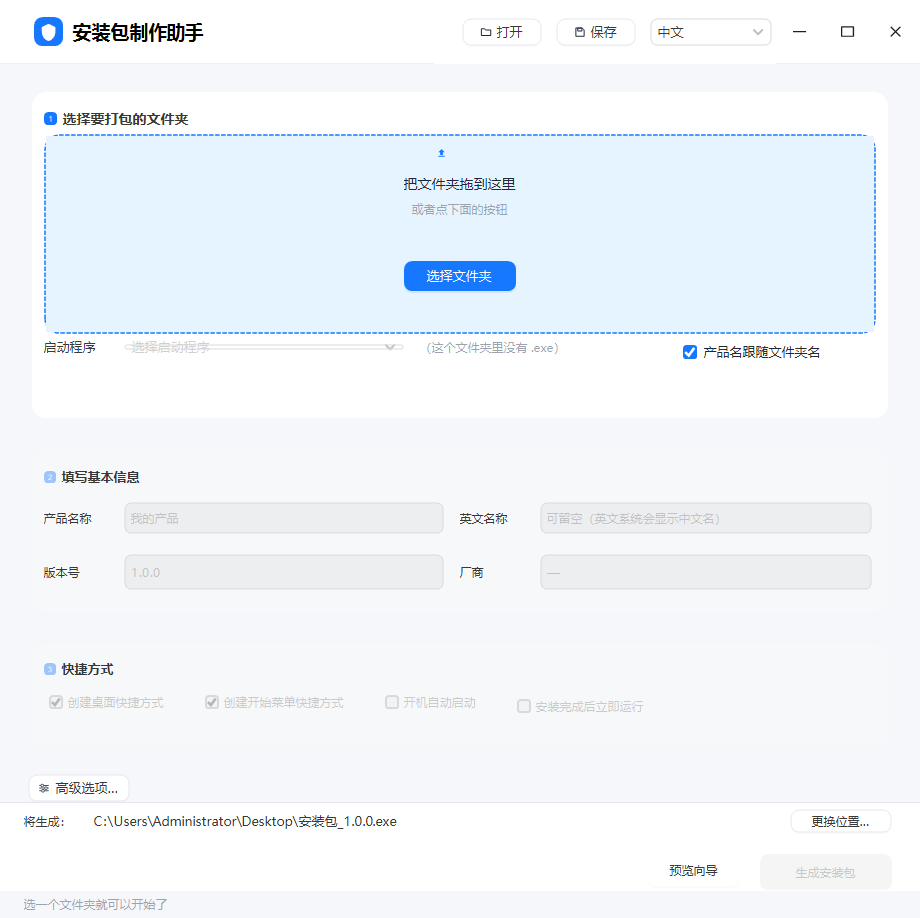
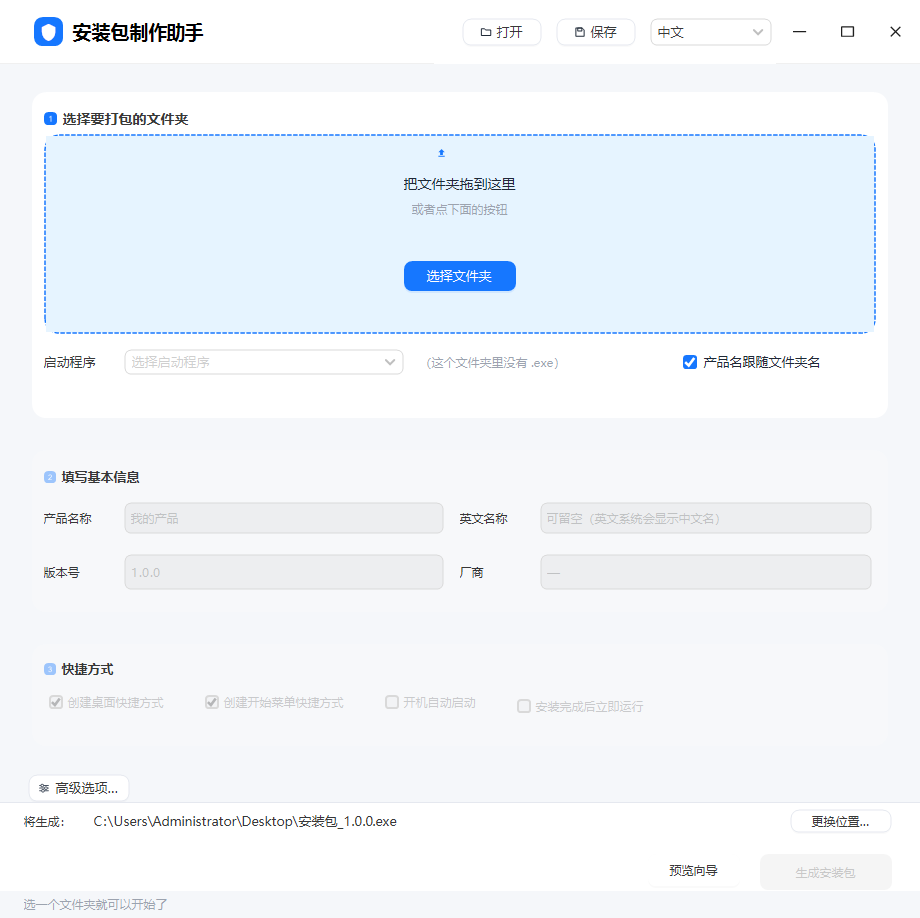
修「启动程序」下拉框：行高没改成功，被压成 14px
用运行时边界 dump 一眼看出来：

  entryLayout  Bounds={X=0,Y=230,Width=832,Height=26}   ← 应该是 56
  cboEntry     Bounds={X=76,Y=11,Width=288,Height=14}   ← 应该是 34

根因：FolderStepView 的 rootLayout 行高还是 30/140/26/46，
我上一轮那个多行 CRLF 拼接的替换**静默失败**了（RowCount 改成 4 但留了 5 条 RowStyle）。

用逐行重写修正为 30 / 200 / 56 / 100%，并顺手核对了另外两个视图：
  FolderStepView   [30, 200, 56, 100%]   ✓
  InfoStepView     [30, 52, 52]          ✓
  ShortcutStepView [26, 48]              ✓

教训：PowerShell 里用 "A`r`nB" 拼多行锚点做替换不可靠，静默不匹配且不报错。
已改用逐行处理（读入数组 → 过滤/替换 → 写回），这轮之后不再出现该问题。

验收：构建 0 警告、单元测试 182/182、端到端 169/169、check-designer 通过

Changed region(s): [[0.0304, 0.366, 0.2435, 0.3965], [0.7304, 0.366, 0.913, 0.3965], [0.4565, 0.366, 0.6087, 0.3965]]

diff --git a/src/Installer.Builder/Views/FolderStepView.Designer.cs b/src/Installer.Builder/Views/FolderStepView.Designer.cs
@@ -64,9 +64,8 @@ namespace Installer.Builder.Views
             this.rootLayout.Name = "rootLayout";
             this.rootLayout.RowCount = 4;
             this.rootLayout.RowStyles.Add(new System.Windows.Forms.RowStyle(System.Windows.Forms.SizeType.Absolute, 30F));
-            this.rootLayout.RowStyles.Add(new System.Windows.Forms.RowStyle(System.Windows.Forms.SizeType.Absolute, 140F));
-            this.rootLayout.RowStyles.Add(new System.Windows.Forms.RowStyle(System.Windows.Forms.SizeType.Absolute, 26F));
-            this.rootLayout.RowStyles.Add(new System.Windows.Forms.RowStyle(System.Windows.Forms.SizeType.Absolute, 46F));
+            this.rootLayout.RowStyles.Add(new System.Windows.Forms.RowStyle(System.Windows.Forms.SizeType.Absolute, 200F));
+            this.rootLayout.RowStyles.Add(new System.Windows.Forms.RowStyle(System.Windows.Forms.SizeType.Absolute, 56F));
             this.rootLayout.RowStyles.Add(new System.Windows.Forms.RowStyle(System.Windows.Forms.SizeType.Percent, 100F));
             this.rootLayout.Size = new System.Drawing.Size(832, 286);
             this.rootLayout.TabIndex = 0;
